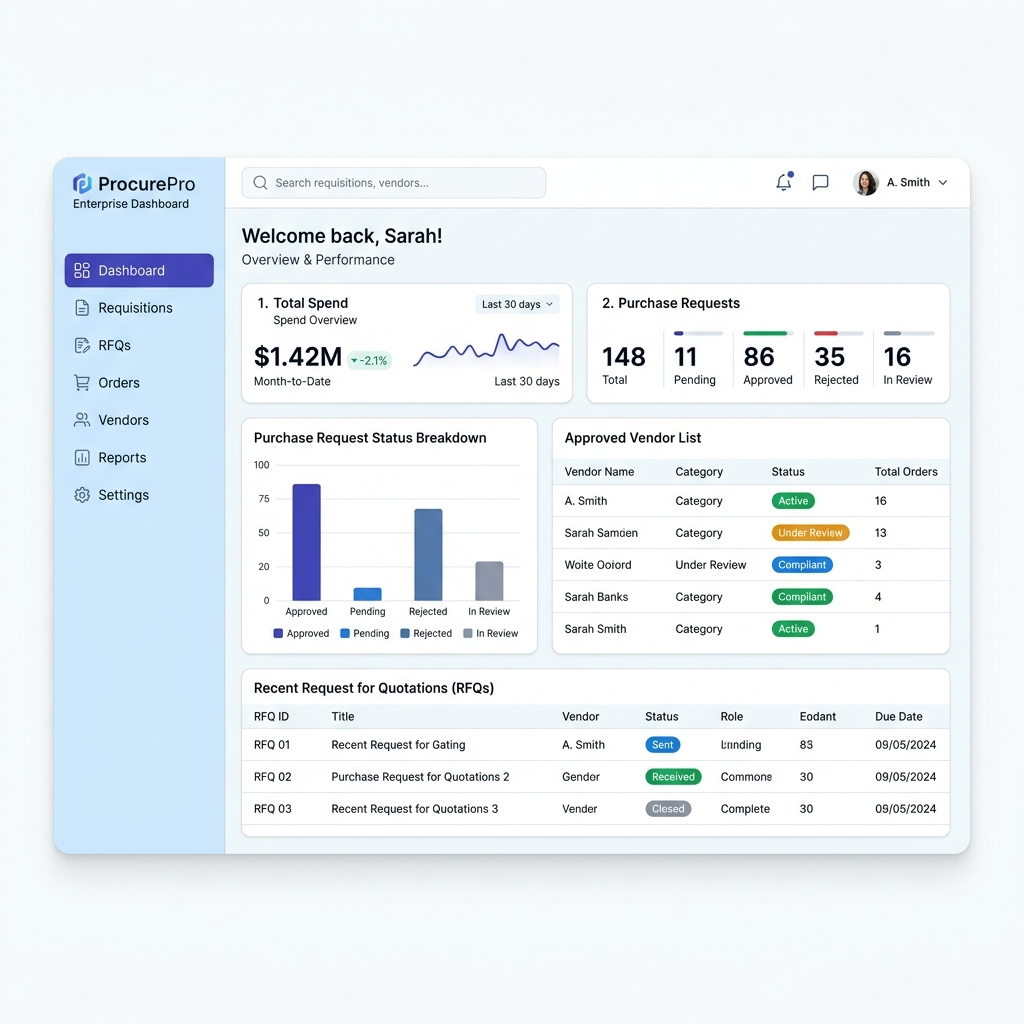
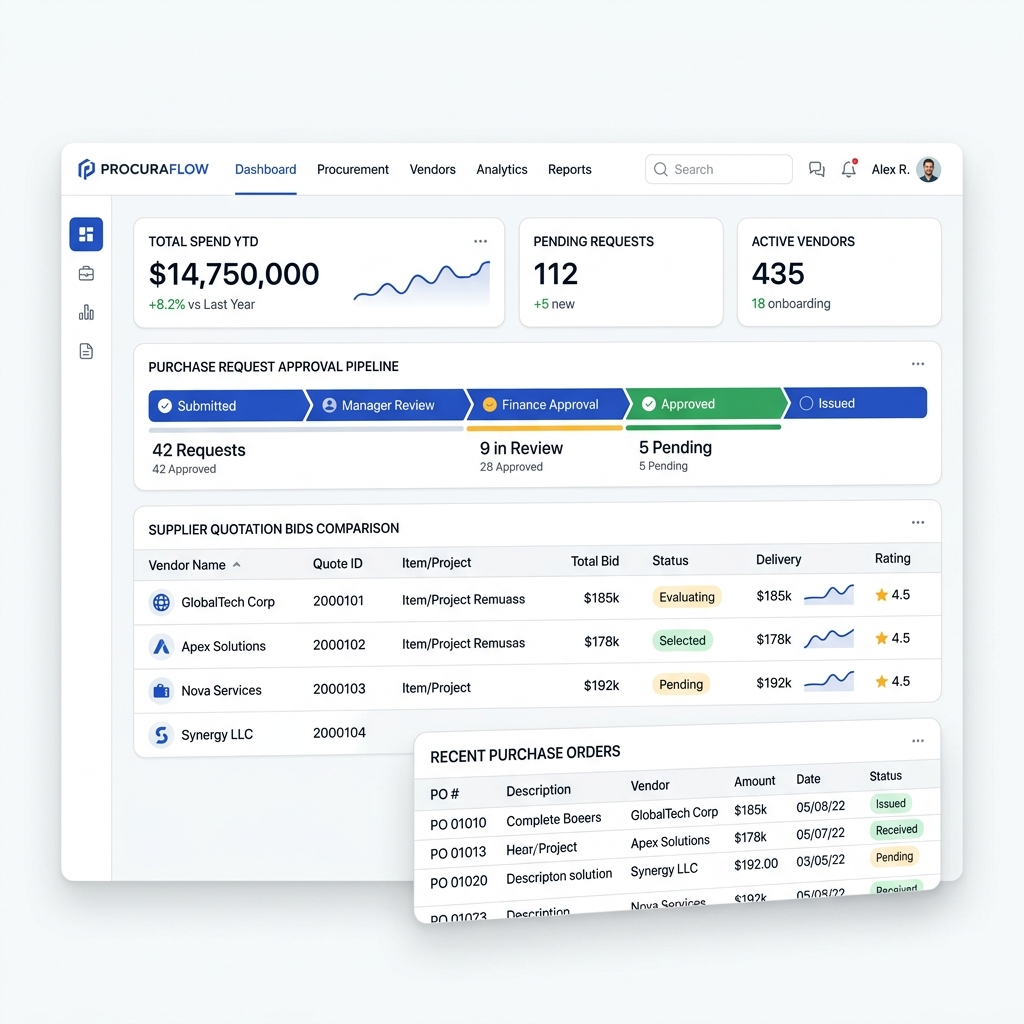
style(hero): remove top pill badge and update right-side dashboard UI mockup image

diff --git a/frontend/src/app/page.tsx b/frontend/src/app/page.tsx
@@ -12,7 +12,6 @@ import {
   Gavel,
   Package,
   Receipt,
-  Sparkles,
   LayoutDashboard,
   User,
   LogOut,
@@ -179,18 +178,13 @@ export default function Home() {
         </div>
       </header>
 
-      {/* Hero Section (Balanced 2-Column Layout with Clean Image & Proportioned Fonts) */}
-      <section className="relative pt-12 pb-16 bg-gradient-to-b from-blue-50/70 via-white to-slate-50 border-b border-slate-200/60 overflow-hidden">
+      {/* Hero Section */}
+      <section className="relative pt-14 pb-16 bg-gradient-to-b from-blue-50/70 via-white to-slate-50 border-b border-slate-200/60 overflow-hidden">
         <div className="max-w-7xl mx-auto px-6">
           <div className="grid grid-cols-1 lg:grid-cols-12 gap-10 items-center">
             
             {/* Left Column: Clean, tightly-proportioned typography & CTAs */}
             <div className="lg:col-span-6 space-y-5 text-left">
-              <div className="inline-flex items-center gap-2 px-3 py-1 rounded-full bg-blue-100/80 border border-blue-200 text-[11px] font-extrabold text-blue-800 shadow-2xs">
-                <Sparkles className="w-3.5 h-3.5 text-blue-600 fill-blue-600/30" />
-                Enterprise Procurement Platform
-              </div>
-
               <h1 className="text-3xl sm:text-4xl lg:text-5xl font-extrabold tracking-tight text-slate-900 leading-[1.16]">
                 Streamline your next <br className="hidden sm:inline" />
                 <span className="bg-gradient-to-r from-blue-600 via-indigo-600 to-blue-700 bg-clip-text text-transparent">
